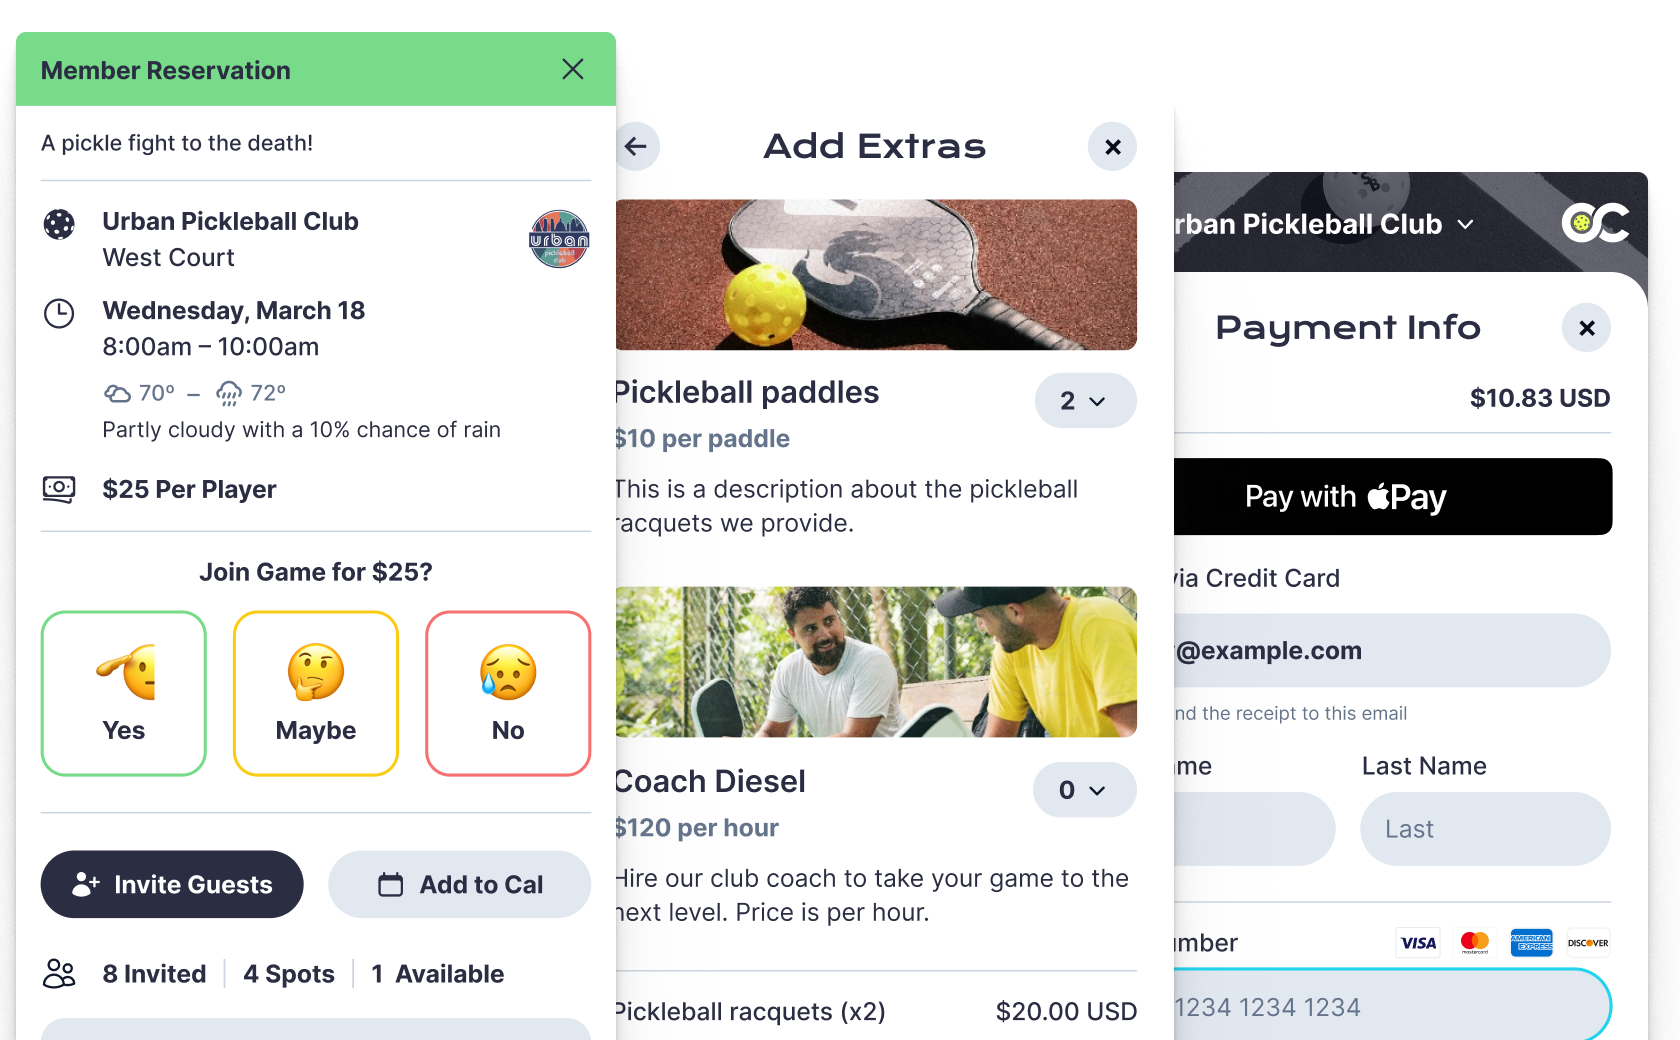
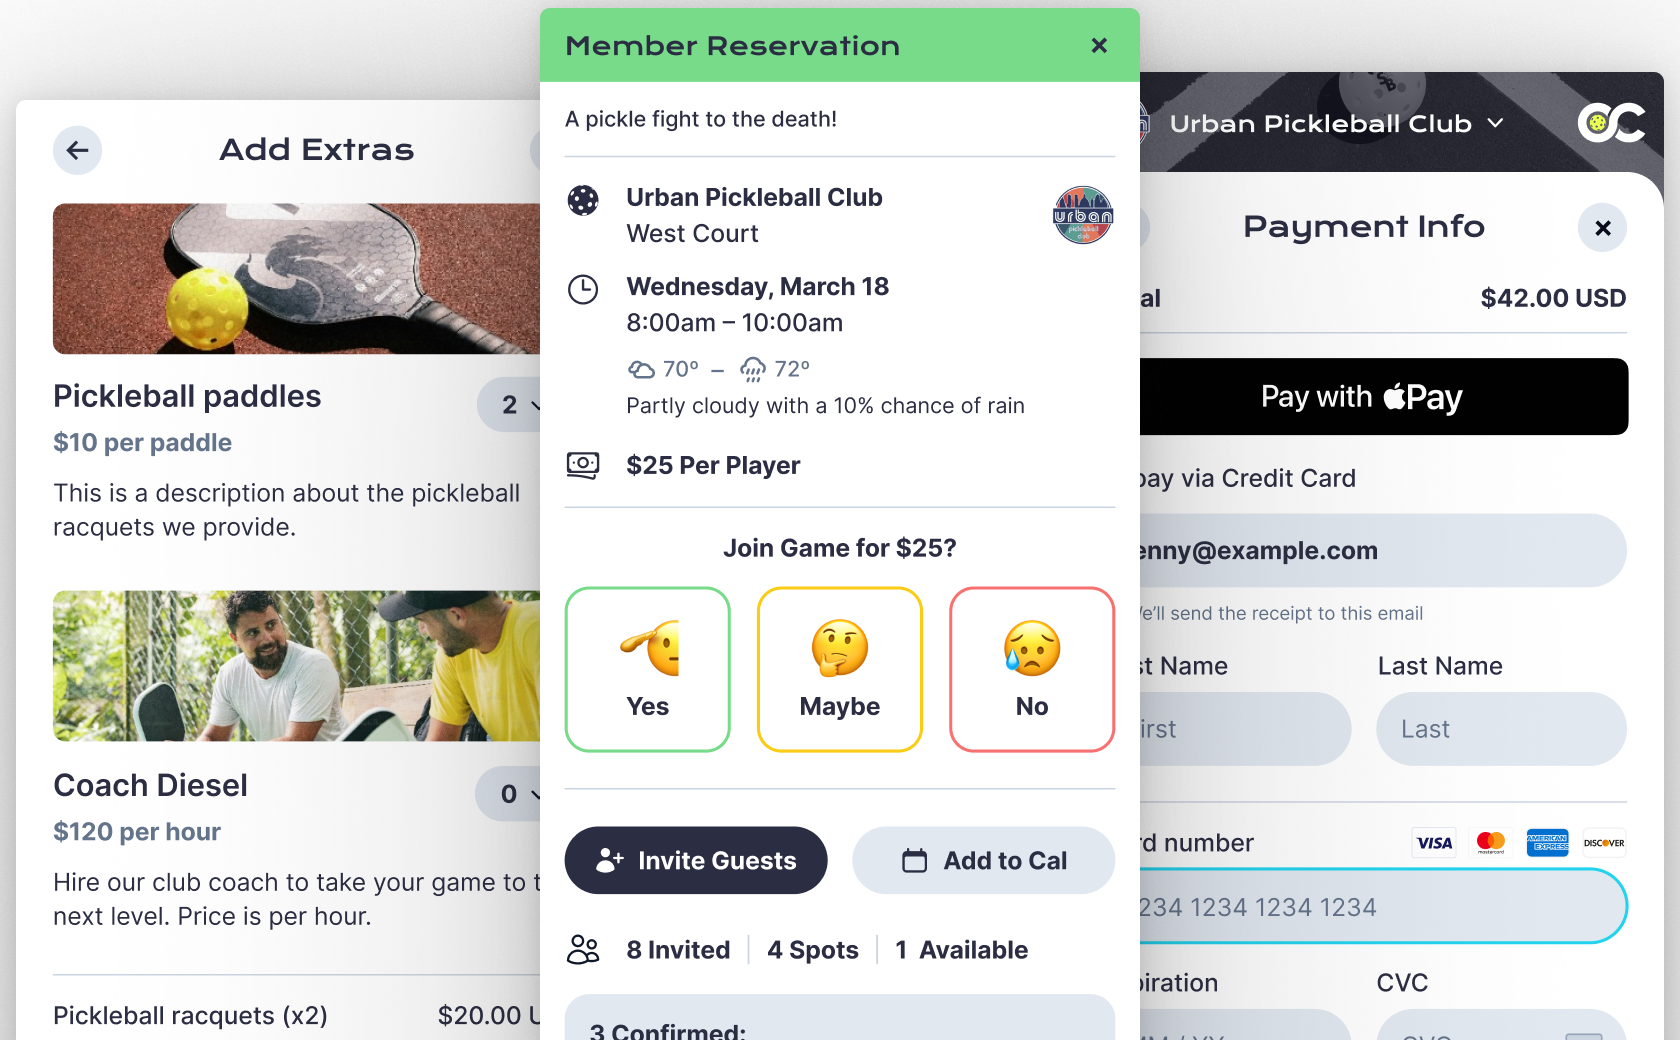
Portfolio: re-exported OpenCourt images + Dave's blurb reorder
Higher-res exports of both screenshots; blurb now lists booking,
events, checkout, then profiles.

diff --git a/components/Opencourt.tsx b/components/Opencourt.tsx
@@ -14,7 +14,7 @@ const OpenCourt = () => {
         </div>
         <h4 className="text-(--color-5) text-lg font-bold italic border-b-2 border-white/10 pb-4 mb-4">A multi-platform app for booking courts, events, and open play at pickleball clubs</h4>
         <p className="mb-4 text-lg leading-8 text-white/90">
-          A six-month consulting engagement focused on the iOS app, delivered through Figma, Loom walkthroughs, and Zoom design reviews. I designed flows for booking courts, player profiles, creating and inviting to events, and checkout with add-on extras.
+          A six-month consulting engagement focused on the iOS app, delivered through Figma, Loom walkthroughs, and Zoom design reviews. I designed flows for booking courts, creating and inviting to events, checkout with add-ons, player profiles and more.
         </p>
       </div>
 